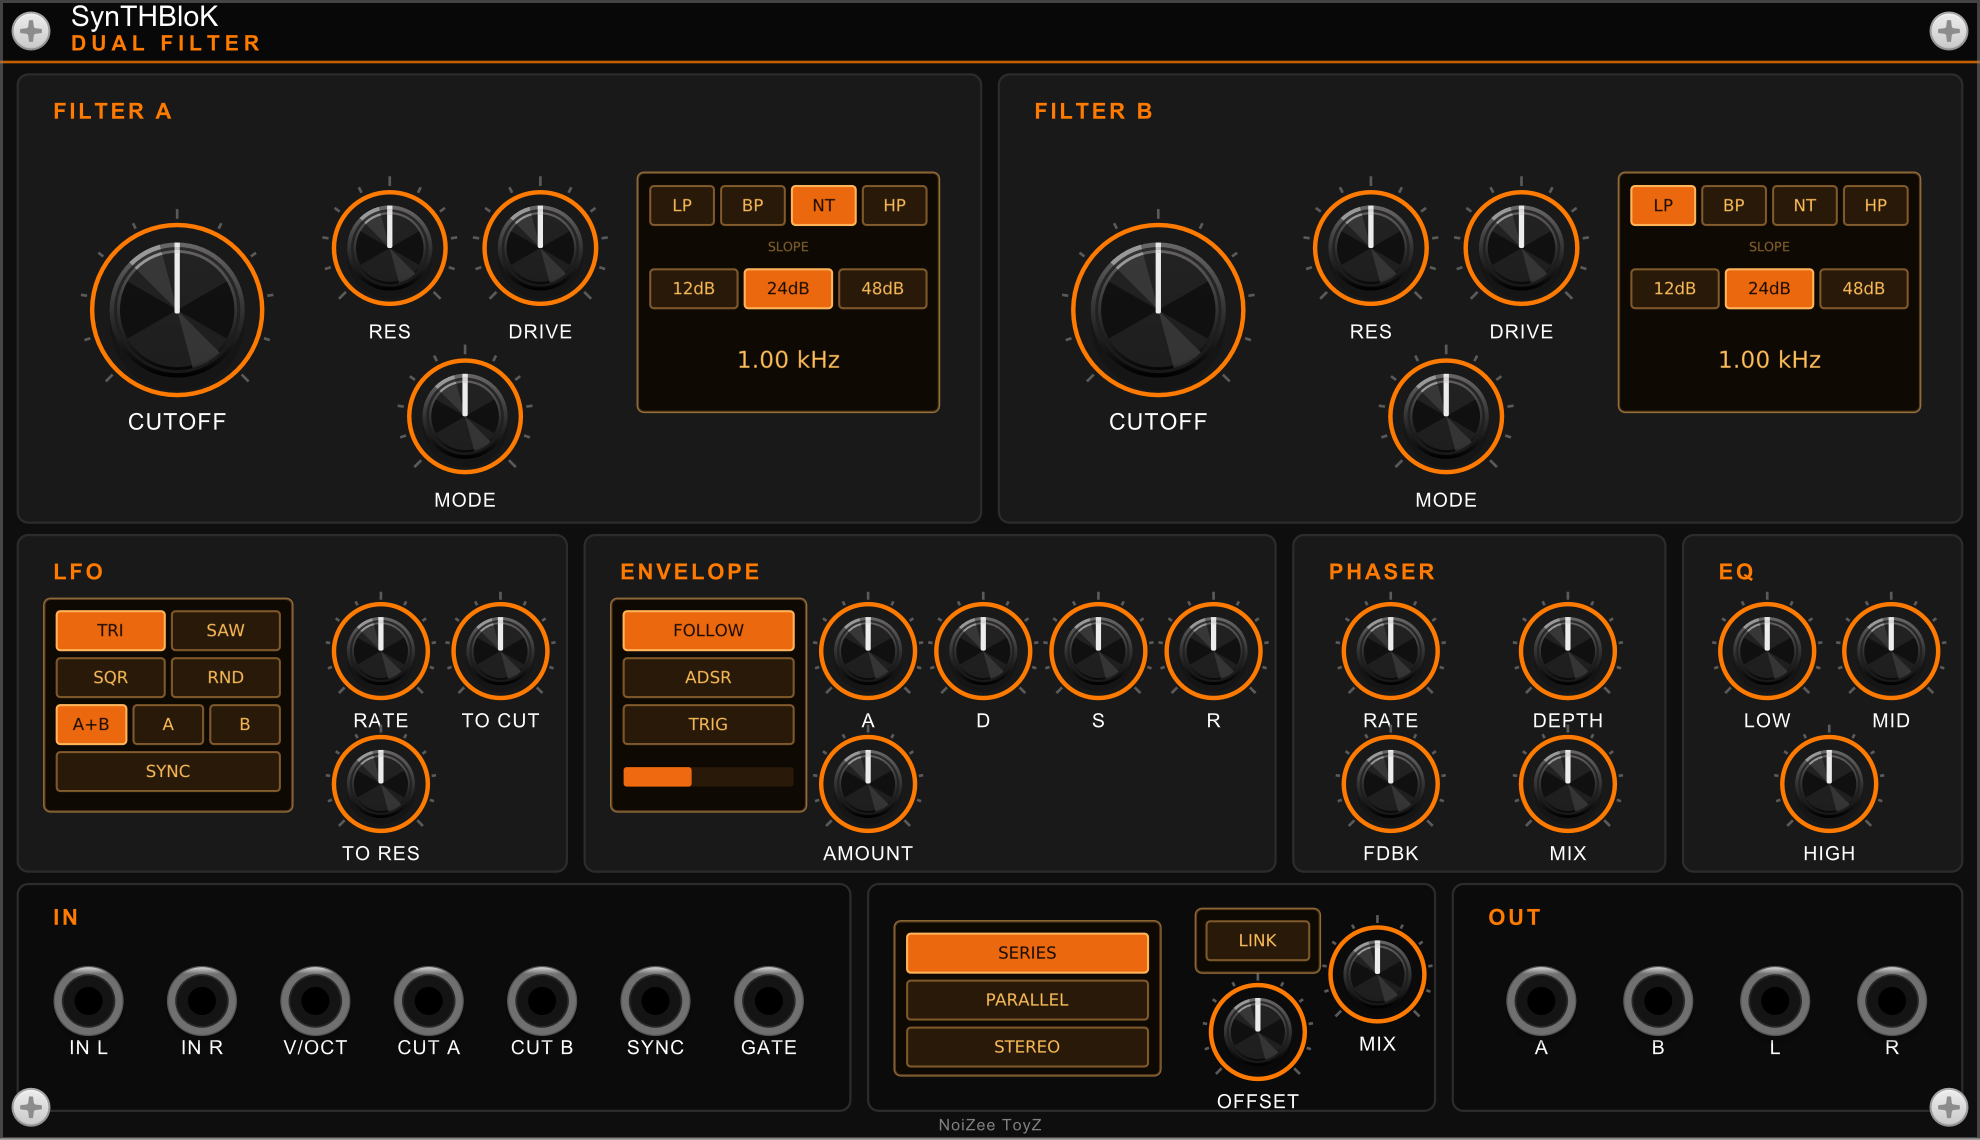
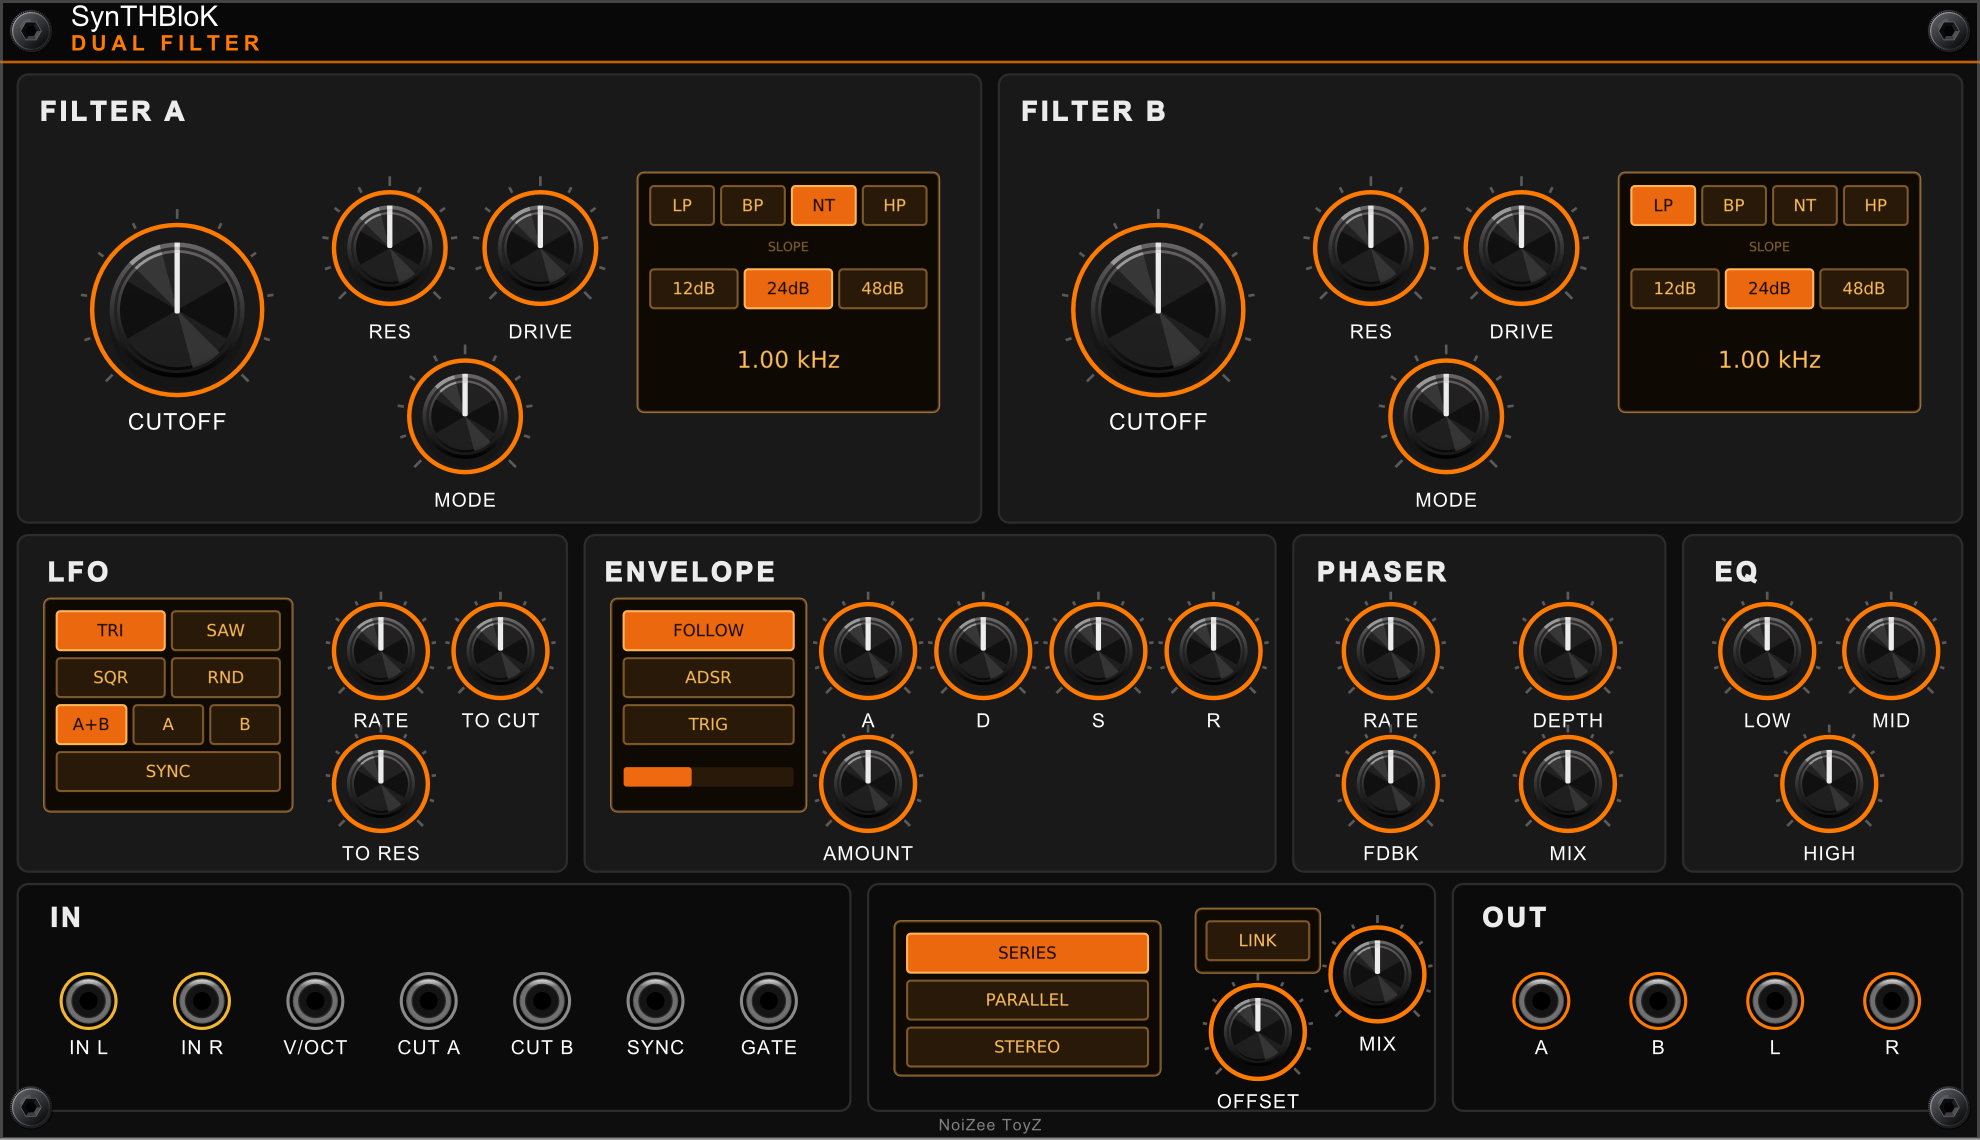
DUAL FILTER 2.1.1: new jack rings (audio in gold, out orange, others grey) + bolder section headers
Claude-Session: https://claude.ai/code/session_0118GTBMnkcZFkLwi5NoL91P

diff --git a/src/OledUi.hpp b/src/OledUi.hpp
@@ -16,18 +16,40 @@
 //    controls beside it (e.g. as tall as a knob's ring)
 #include "plugin.hpp"
 #include <string>
+#include <cmath>
+#include <algorithm>
 
 namespace oled {
 
 static const float kRow = 4.4f;      // info line height, mm
 static const float kCellH = 4.4f;    // button cell height, mm
 
-inline NVGcolor amber(int a = 255) { return nvgRGBA(255, 190, 90, a); }
-inline NVGcolor dim() { return nvgRGBA(255, 190, 90, 130); }
-inline NVGcolor green() { return nvgRGBA(120, 230, 90, 255); }
-inline NVGcolor outline(int a = 80) { return nvgRGBA(255, 180, 90, a); }
-inline NVGcolor litFill() { return nvgRGBA(255, 112, 15, 235); }
-inline NVGcolor offFill() { return nvgRGBA(40, 25, 8, 255); }
+// BACKDROP RECOLOUR step 2 (Nov 20 2026): BACKDROP can hand every NoiZee ToyZ screen its theme colour (off: the usual amber)
+struct Theme { bool on = false; float r = 1.f, g = 0.745f, b = 0.353f; float rot = 0.f, sat = 1.f; };   // (BLOX THEMES: rot / sat)
+inline Theme& theme() { static Theme t; return t; }
+inline NVGcolor accent(int a) { const Theme& t = theme(); return nvgRGBA((int) (t.r * 255.f), (int) (t.g * 255.f), (int) (t.b * 255.f), a); }
+// BLOX THEMES (Nov 20 2026): BLOX's colour turn (themes.js nzShiftRGB): hue + rot, saturation x sat; near-greys stay
+inline NVGcolor shift(NVGcolor c) {
+    const Theme& t = theme();
+    if (t.rot == 0.f && t.sat == 1.f) return c;
+    float R = c.r, G = c.g, B = c.b, mx = std::max(R, std::max(G, B)), mn = std::min(R, std::min(G, B)), l = (mx + mn) * 0.5f, d = mx - mn;
+    if (d < 0.04f) return c;
+    float sv = l > 0.5f ? d / (2.f - mx - mn) : d / (mx + mn), h;
+    if (mx == R) h = ((G - B) / d + (G < B ? 6.f : 0.f)) * 60.f; else if (mx == G) h = ((B - R) / d + 2.f) * 60.f; else h = ((R - G) / d + 4.f) * 60.f;
+    h = std::fmod(std::fmod(h + t.rot, 360.f) + 360.f, 360.f); sv = std::min(1.f, sv * t.sat);
+    float q = l < 0.5f ? l * (1.f + sv) : l + sv - l * sv, p = 2.f * l - q;
+    auto f = [&](float k) { k = k - std::floor(k); return k < 1.f / 6.f ? p + (q - p) * 6.f * k : k < 0.5f ? q : k < 2.f / 3.f ? p + (q - p) * (2.f / 3.f - k) * 6.f : p; };
+    return nvgRGBAf(f(h / 360.f + 1.f / 3.f), f(h / 360.f), f(h / 360.f - 1.f / 3.f), c.a);
+}
+// (BLOX THEMES on the MTX parts) colour makers that follow the BACKDROP theme
+inline NVGcolor tRGB(unsigned char r, unsigned char g, unsigned char b) { return shift(nvgRGB(r, g, b)); }
+inline NVGcolor tRGBA(unsigned char r, unsigned char g, unsigned char b, unsigned char a) { return shift(nvgRGBA(r, g, b, a)); }
+inline NVGcolor amber(int a = 255) { return shift(nvgRGBA(255, 190, 90, a)); }
+inline NVGcolor dim() { return shift(nvgRGBA(255, 190, 90, 130)); }
+inline NVGcolor green() { return shift(nvgRGBA(120, 230, 90, 255)); }
+inline NVGcolor outline(int a = 80) { return shift(nvgRGBA(255, 180, 90, a)); }
+inline NVGcolor litFill() { return shift(nvgRGBA(255, 112, 15, 235)); }
+inline NVGcolor offFill() { return shift(nvgRGBA(40, 25, 8, 255)); }
 inline NVGcolor ink() { return nvgRGBA(20, 10, 2, 255); }
 
 // The display body.
@@ -69,6 +91,23 @@ inline void midiLine(const widget::Widget::DrawArgs& args, midi::Port* port, con
 }
 
 // The port menu a MIDI line opens.
+// The MTX header title, as on MTX-ECHO / MTX-DRUM: "SynTHBloK" in white, the module's name in spaced orange under it,
+// left at 8.5 mm (Nick, Nov 12 2026: every new module's faceplate title matches the others)
+inline void mtxTitle(NVGcontext* vg, const char* name) {
+    std::shared_ptr<window::Font> font = APP->window->uiFont;
+    if (!font) return;
+    nvgFontFaceId(vg, font->handle);
+    nvgTextAlign(vg, NVG_ALIGN_LEFT | NVG_ALIGN_BASELINE);
+    nvgFontSize(vg, 11.f);
+    nvgTextLetterSpacing(vg, 0.f);
+    nvgFillColor(vg, nvgRGB(0xff, 0xff, 0xff));
+    nvgText(vg, mm2px(8.5f), mm2px(3.5f), "SynTHBloK", NULL);
+    nvgFontSize(vg, 10.f);
+    nvgTextLetterSpacing(vg, 0.8f);
+    nvgFillColor(vg, shift(nvgRGB(0xff, 0x7a, 0x00)));
+    nvgText(vg, mm2px(8.5f), mm2px(6.4f), name, NULL);
+    nvgTextLetterSpacing(vg, 0.f);
+}
 inline void midiMenu(midi::Port* port, const char* title) {
     if (!port) return;
     ui::Menu* menu = createMenu();

diff --git a/src/plugin.hpp b/src/plugin.hpp
@@ -1,5 +1,6 @@
 #pragma once
 #include "rack.hpp"
+#include <set>
 
 using namespace rack;
 
@@ -44,15 +45,43 @@ extern Model* modelSynTHBloKLoop;
 extern Model* modelSynTHBloKMtxQuad;
 extern Model* modelSynTHBloKDualFilter;
 extern Model* modelSynTHBloKRandroyd;
+extern Model* modelNoizeePatchGen;
+// the module ids PATCH GEN placed (src/NoizeePatchGen.cpp): RANDROYD never patches into them
+std::set<int64_t>& patchGenOwned();
+// ONE RIG: set by a RANDROYD in the rack; PATCH GEN calls it so its patch packs into RANDROYD's rig
+#include <functional>
+std::function<void(history::ComplexAction*)>& randroydPackHook();
 
 // VCV-size jack (23.7 px, the same as Rack's PJ301M): black body with a silver ring.
 // Used on every module but the JAM and MIX-24.
-struct BlackJack : app::SvgPort {
-    BlackJack() { setSvg(APP->window->loadSvg(asset::plugin(pluginInstance, "res/JackBlackSilver.svg"))); }
+// JACK RINGS (Nov 26 2026, Nick): every jack draws its own ring, one size on every module, coloured by what it carries
+// (src/JackRings.hpp: audio in gold, audio out orange, the rest grey). Panels no longer draw jack rings.
+#include "JackRings.hpp"
+struct RingPort : app::SvgPort {
+    int ringKind = -1;   // resolved lazily in draw(): Rack -t screenshots and browser previews draw before any step()
+    void resolveRing() {  // (Gemini review, Nov 26): module may be null there, the ModuleWidget's model is set by then
+        app::ModuleWidget* mw = getAncestorOfType<app::ModuleWidget>();
+        if (mw && mw->model) ringKind = jackrings::kindOf(mw->model->slug, type == engine::Port::OUTPUT, portId);
+    }
+    void draw(const DrawArgs& args) override {
+        app::SvgPort::draw(args);   // jack + its shadow first, so the ring stays crisp (it clears the 2.5 mm jack body)
+        if (ringKind < 0) resolveRing();
+        nvgBeginPath(args.vg);
+        nvgCircle(args.vg, box.size.x * 0.5f, box.size.y * 0.5f, mm2px(jackrings::RING_R_MM));
+        nvgStrokeWidth(args.vg, mm2px(jackrings::RING_W_MM));
+        nvgStrokeColor(args.vg, jackrings::colour(ringKind < 0 ? jackrings::GREY : (jackrings::Kind)ringKind));
+        nvgStroke(args.vg);
+    }
+};
+
+struct BlackJack : RingPort {
+    // (Nov 14 2026, Nick: "make all the jacks match small jacks": every module's jacks are the 5.2 mm small jack now; the
+    // 8 mm black / silver art stays in res/ in case it comes back. Jacks are placed by their centre, so they stay put.)
+    BlackJack() { setSvg(APP->window->loadSvg(asset::plugin(pluginInstance, "res/JackSmall.svg"))); }
 };
 
 // Small version of BlackJack (5.2 mm), for the JAM and MIX-24 modules.
-struct SmallJack : app::SvgPort {
+struct SmallJack : RingPort {
     SmallJack() { setSvg(APP->window->loadSvg(asset::plugin(pluginInstance, "res/JackSmall.svg"))); }
 };
 

diff --git a/src/JackRings.hpp b/src/JackRings.hpp
@@ -1,0 +1,60 @@
+#pragma once
+// JACK RINGS (Nov 26 2026, Nick): every jack gets ONE ring, same size on every module (r 3.1 mm, line 0.35 mm, the old
+// STEREO PHASER CV ring), coloured by what it carries: audio IN gold #f2b632, audio OUT orange #ff7a00, everything else
+// grey #8a8a8a. Drawn by the jack widget (BlackJack / SmallJack in plugin.hpp); panels no longer draw jack rings.
+// The table lists only AUDIO ports (enum index = configInput / configOutput order); anything not listed is grey.
+// Sidechain inputs count as audio, FM inputs do not (Nick, Nov 26). Keyed by model slug (same in the paid plugin and singles).
+#include <rack.hpp>
+#include <string>
+#include <vector>
+#include <cstring>
+
+namespace jackrings {
+struct Entry { const char* slug; std::vector<int> in, out; };
+inline const std::vector<Entry>& table() {
+    static const std::vector<Entry> t = {
+        {"MatrixForge", {0,1}, {0,1}},
+        {"Duo", {3,4}, {0,1,2,3}},
+        {"Drum", {3,4}, {0,1,10,11,12,13,14,15,16,17,28,29}},
+        {"MtxQuad", {9,11}, {0,1,2,3,5,6,7,8,9}},
+        {"Quad", {9,11}, {0,1,2,3,5,6,7,8,9}},
+        {"MatrixFx", {0,1,2,3,4,5,6,7,11}, {0,1}},
+        {"Echo", {0,1}, {0,1}},
+        {"Loop", {0,1,2,3,4,5,6,7}, {0,1,2,3,4,5,6,7,8,9}},
+        {"GlitchEcho", {0,1}, {0,1}},
+        {"Grit", {0,1}, {0,1}},
+        {"Stereo", {0}, {0,1}},
+        {"Matrix8", {}, {17,18}},
+        {"Kick", {}, {0,1}},
+        {"SnareHat", {}, {0,1,2}},
+        {"Resonator", {4,5}, {0,1,3}},
+        {"Poly", {}, {0,1}},
+        {"Pulse", {}, {0}},
+        {"DualFilter", {0,1}, {0,1,2,3}},
+        {"NoizeeFlagshipFilter", {16,17}, {0,1}},
+        {"FX", {9,10}, {0,1,2}},
+        {"GrainForge", {0,1}, {0,1}},
+        {"BlokMaster", {0,1,2}, {0,1}},
+        {"Mix24", {6,7,8,9,10,11,12,13,14,15,16,17,18,19}, {0,1,2,3}},
+        {"Mix8", {6,7,8,9,10,11,12,13,14,15,16,17,18,19,20,21,22,23}, {0,1,2,3}},
+        {"Mix12", {6,7,8,9,10,11,12,13,14,15,16,17,18,19,20,21,22,23,24,25,26,27,28,29,30,31}, {0,1,2,3}},
+        {"ToyBox", {}, {3,4}},
+    };
+    return t;
+}
+enum Kind { GREY = 0, AUDIO_IN = 1, AUDIO_OUT = 2 };
+inline Kind kindOf(const std::string& slug, bool out, int id) {
+    for (const Entry& e : table()) {
+        if (slug != e.slug) continue;
+        for (int v : (out ? e.out : e.in)) if (v == id) return out ? AUDIO_OUT : AUDIO_IN;
+        return GREY;
+    }
+    return GREY;
+}
+inline NVGcolor colour(Kind k) {
+    if (k == AUDIO_IN)  return nvgRGB(0xf2, 0xb6, 0x32);
+    if (k == AUDIO_OUT) return nvgRGB(0xff, 0x7a, 0x00);
+    return nvgRGB(0x8a, 0x8a, 0x8a);
+}
+constexpr float RING_R_MM = 3.1f, RING_W_MM = 0.35f;
+}  // namespace jackrings
